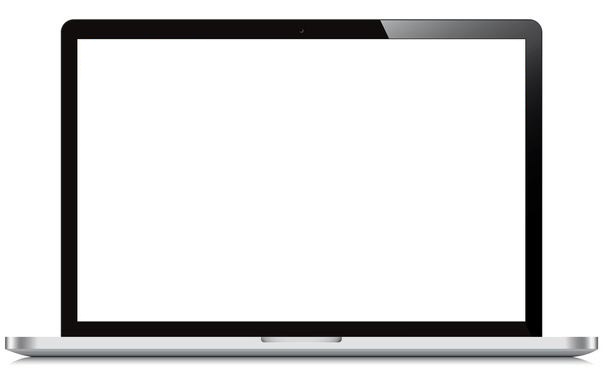
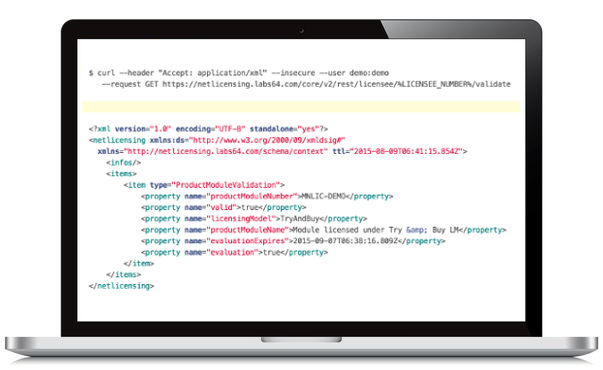
- revise Getting Started

Changed region(s): [[0.1194, 0.2676, 0.8657, 0.8027], [0.1493, 0.1784, 0.8657, 0.2378]]

diff --git a/pages/getting-started.md b/pages/getting-started.md
@@ -29,10 +29,11 @@ tags:
                          style="width: 350px;padding-left:20px;">
                 </div>
                 <div class="col-md-8">
-                    <p>IT’S NOT JUST FREE TO GET STARTED, IT’S FREE FOREVER!</p>
                     <ul style="margin-left: 20px;">
-                        <li><a href="https://netlicensing.labs64.com/app/v2/content/register.xhtml">Sign-up for a NetLicensing account</a> and or use our <a href="https://netlicensing.labs64.com/app/v2/?lc=4b566c7e20&source=lmbox001">Demo account</a></li>
+                        <li>Sign-up for a <a href="https://netlicensing.labs64.com/app/v2/content/register.xhtml" title="It’s not just free to get started, it’s FREE forever!">free NetLicensing account</a> and or use our <a href="https://netlicensing.labs64.com/app/v2/?lc=4b566c7e20&source=lmbox001">demo account</a></li>
                         <li>Add your username, password, email and company name</li>
+                        <li>Agree to the NetLicensing <i>Terms of Service</i> and <i>Privacy Policy</i></li>
+                        <li>Enable <i>'Newsletter'</i> checkbox if want to be notified about NetLicensing announcements, news and promo actions</li>
                     </ul>
                 </div>
             </div>
@@ -54,12 +55,12 @@ tags:
                 </div>
                 <div class="col-md-8">
                     <ul style="margin-left: 20px;">
-                        <li>Navigate to <a href="https://netlicensing.labs64.com/app/v2/content/vendor/demodata.xhtml">'Settings -> Demo Data'</a></li>
-                        <li>Select 'Licensing Model'</li>
+                        <li>Navigate to <i><a href="https://netlicensing.labs64.com/app/v2/content/vendor/demodata.xhtml">'Settings -> Demo Data'</a></i></li>
+                        <li>Select <i>'Licensing Model'</i></li>
                         <li>(Optional) provide custom identifier</li>
-                        <li>Click on 'Create'</li>
+                        <li>Click on <i>'Create'</i></li>
                     </ul>
-                    Demo entities (Product, Product Module, License Templates, Licensee) will be created
+                    Demo NetLicensing entities (Product, Product Module, License Templates, Licensee) will be created
                 </div>
             </div>
         </div>
@@ -79,18 +80,26 @@ tags:
                          style="width: 350px;padding-left:20px;">
                 </div>
                 <div class="col-md-8">
-                    Request:
+                    <ul style="margin-left: 20px;">
+                        <li>Navigate to <i><a href="https://netlicensing.labs64.com/app/v2/content/vendor/licensee.xhtml">'Operate -> Licensee'</a></i></li>
+                        <li>Identify newly created licensee and note <i>Licensee Number</i></li>
+                        <li>Send first validation request (replace %LICENSEE_NUMBER%)</li>
+                        <li>In case you are using your vendor account please provide <i>username:password</i> in the <i>--user</i> attribute</li>
+                        <li>Alternatively you can use NetLicensing API <i><a href="http://io.labs64.com/NetLicensing-API/">test application</a></i>, which provides easy access to all NetLicensing functions</li>
+                    </ul>
+                    <span>
+                    Sample request:
                     {% highlight ruby %}
 $ curl --header "Accept: application/xml" --insecure --user demo:demo --request GET https://netlicensing.labs64.com/core/v2/rest/licensee/%LICENSEE_NUMBER%/validate
                     {% endhighlight %}
-                    Response:
+                    Sample response:
                     {% highlight xml %}
 <?xml version="1.0" encoding="UTF-8" standalone="yes"?>
 <netlicensing xmlns:ds="http://www.w3.org/2000/09/xmldsig#" xmlns="http://netlicensing.labs64.com/schema/context" ttl="2015-08-09T06:41:15.854Z">
     <infos/>
     <items>
         <item type="ProductModuleValidation">
-            <property name="productModuleNumber">M22-DEMO</property>
+            <property name="productModuleNumber">MNLIC-DEMO</property>
             <property name="valid">true</property>
             <property name="licensingModel">TryAndBuy</property>
             <property name="productModuleName">Module licensed under Try &amp; Buy LM</property>
@@ -100,6 +109,7 @@ $ curl --header "Accept: application/xml" --insecure --user demo:demo --request 
     </items>
 </netlicensing>
                     {% endhighlight %}
+                    </span>
                 </div>
             </div>
         </div>
@@ -119,7 +129,11 @@ $ curl --header "Accept: application/xml" --insecure --user demo:demo --request 
                          style="width: 350px;padding-left:20px;">
                 </div>
                 <div class="col-md-8">
-                    Integrate <a href="https://www.labs64.de/confluence/x/pwCo">NetLicensing API</a> in your product
+                    <ul style="margin-left: 20px;">
+                        <li>NetLicensing API allows you automate managing of all licensing entities (from <i>product</i> to <i>transaction</i>)</li>
+                        <li>Please refer to the <i><a href="https://www.labs64.de/confluence/x/sQCo">NetLicensing Object Model</a></i> in order to better understand licensing entities relationship</li>
+                        <li>Page <i><a href="/documentation/">For Integrators</a></i> will give you overview over all existing NetLicensing resources (Test App, RESTful API, JavaDoc, Client Libraries etc.)</li>
+                    </ul>
                 </div>
             </div>
         </div>
@@ -139,15 +153,17 @@ $ curl --header "Accept: application/xml" --insecure --user demo:demo --request 
                          style="width: 350px;padding-left:20px;">
                 </div>
                 <div class="col-md-8">
-                    <p>Provide a link to NetLicensing Shop in the UI of your product or forward the user to NetLicensing
-                        Shop URL by other means.The URL of NetLicensing Shop has the following format:</p>
-                    {% highlight ruby %}
-                    https://netlicensing.labs64.com/app/v2/content/shop.xhtml?shoptoken={token}
-                    {% endhighlight %}
-                    <p>_token_ must be obtained using <a
-                            href="https://www.labs64.de/confluence/display/NLICPUB/Token+Services">create token</a>
-                        service with tokenType=SHOP. The Generate token service returns also the complete shop URL for
-                        convenience.</p>
+                    <ul style="margin-left: 20px;">
+                        <li>Provide a link to NetLicensing Shop in the UI of your product or forward the user to NetLicensing Shop URL by other means</li>
+                        <li>The URL of NetLicensing Shop has the following format:</li>
+                        {% highlight ruby %}
+                        https://netlicensing.labs64.com/app/v2/content/shop.xhtml?shoptoken=%TOKEN%
+                        {% endhighlight %}
+                        <p><i>%TOKEN%</i> must be obtained using <a
+                                href="https://www.labs64.de/confluence/display/NLICPUB/Token+Services">create token</a>
+                            service with <i>tokenType=SHOP</i>. The <i>Create token</i> service returns also the complete <i>shopURL</i> for
+                            convenience.</p>
+                    </ul>
                 </div>
             </div>
         </div>
